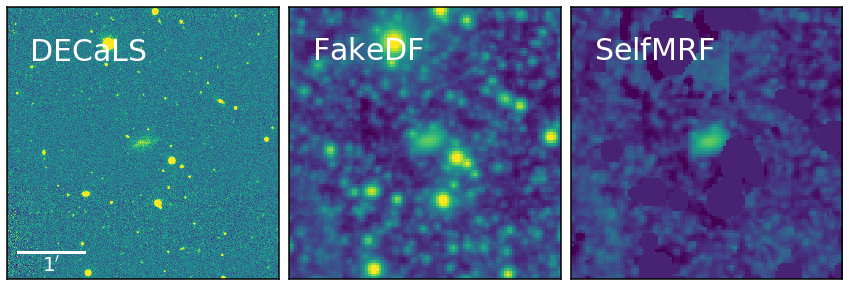
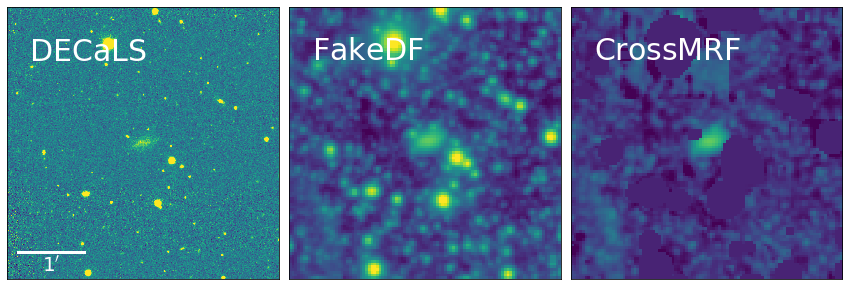
update cross-mrf example

diff --git a/docs/source/tutorial/mrf-tutorial.rst b/docs/source/tutorial/mrf-tutorial.rst
@@ -146,6 +146,24 @@ After having ``results``, you can show the flux model, kernels and stacked PSF a
     :figclass: align-center
 
 
+Self-MRF and Cross-MRF
+^^^^^^^^^^^^^^^^^^^^^^^
+In many cases, high-resolution images (such as DECaLS, HSC, CFHT) are easier to find than intrinsically low-resolution images such as Dragonfly. However the philosophy of MRF still stands even if no Dragonfly data is available. An artificial low-resolution image can be made by binning high-resolution image and then convolve with a kernel. The kernel can be tuned to the particular structures that the user intends to isolate. Based on our tests, a kernel with Sersic index = 1 (exponential) works well for isolating extended dwarf galaxies. 
+
+We refer **"self-MRF"** to be the case where the high-resolution image is the same one as what the low-resolution image is made from. However, artifacts in high-resolution image pass to low-resolution image and cause spurious discoveries. Therefore two overlapped high-resolution datasets can be used in this situation, and we call this **"cross-MRF"**. The dataset with the best low surface brightness sensitivity can be used for making low-resolution image. An important advantage over self-MRF is that artifacts (such as diffraction spikes) are usually not present at the same location in two independent datasets. Check out demonstration of `self-MRF <https://github.com/AstroJacobLi/mrf/tree/master/examples/selfmrf>`_ and `cross-MRF  <https://github.com/AstroJacobLi/mrf/tree/master/examples/crossmrf>`_!
+
+.. figure:: https://github.com/AstroJacobLi/mrf/raw/master/examples/selfmrf/LSBG-750-selfmrf.png
+    :width: 1000px
+    :align: center
+    :alt: alternate text
+    :figclass: align-center
+
+.. figure:: https://github.com/AstroJacobLi/mrf/raw/master/examples/crossmrf/LSBG-750-crossmrf.png
+    :width: 1000px
+    :align: center
+    :alt: alternate text
+    :figclass: align-center
+
 
 Run with script
 ^^^^^^^^^^^^^^^
